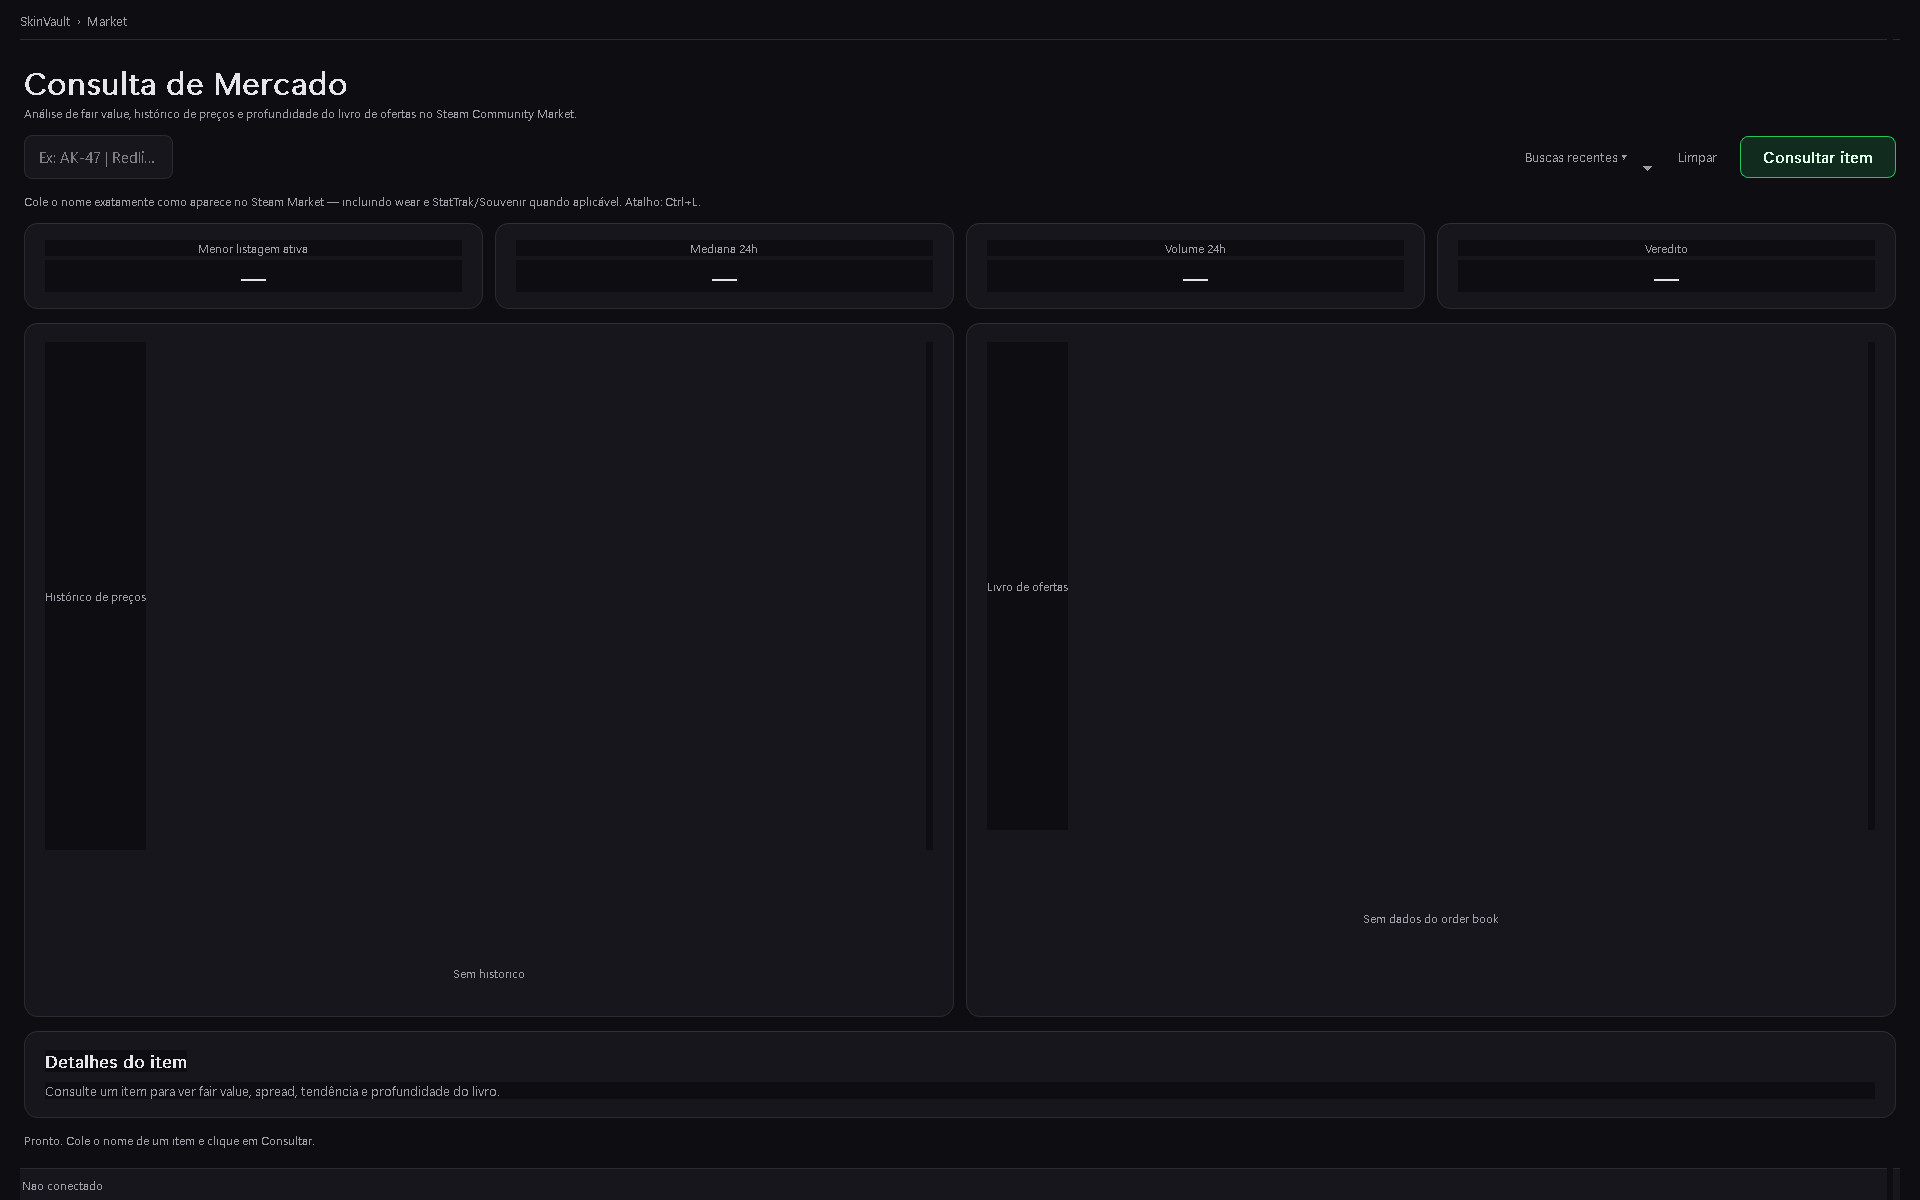
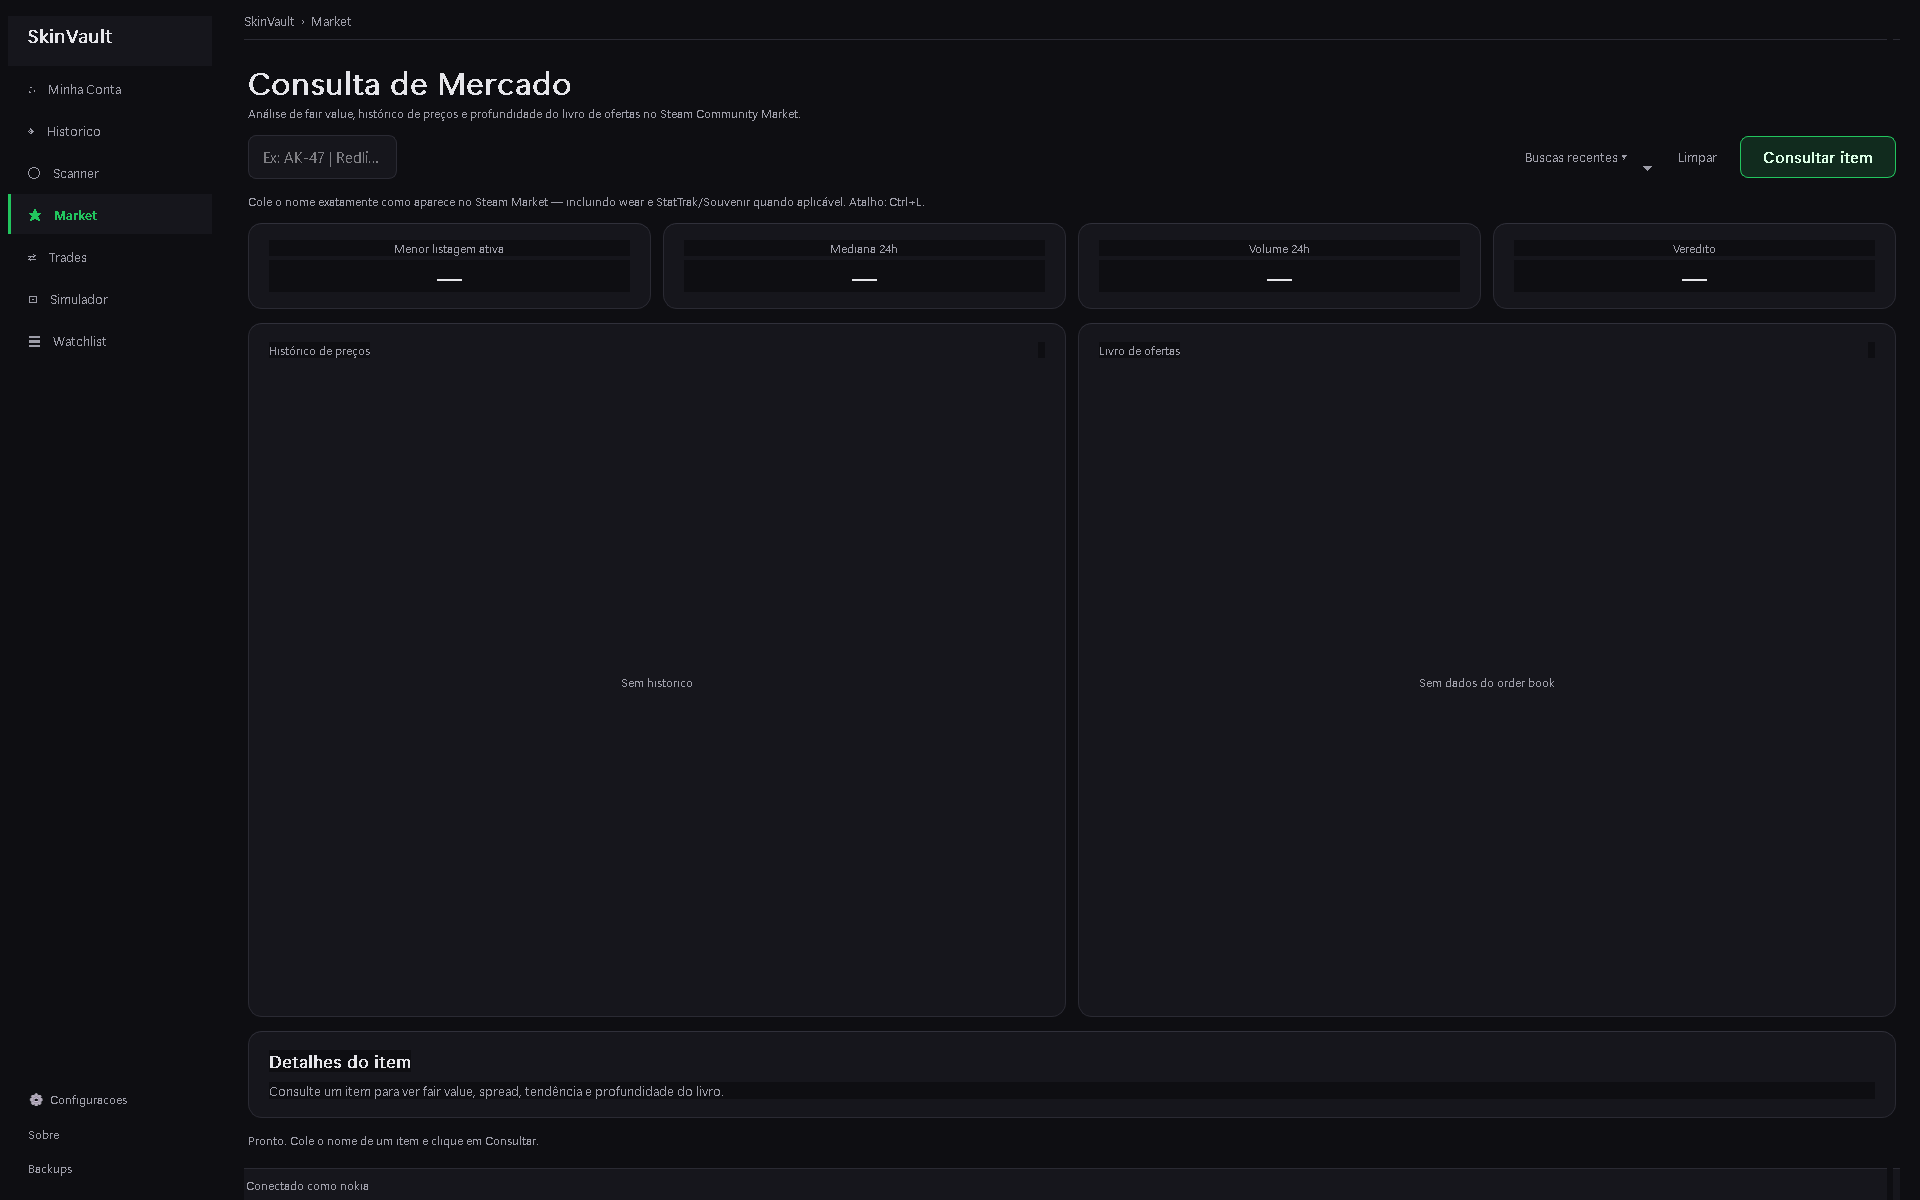
ui: charts polish — hover tooltip no sparkline, labels no depth, fix bug
- FIX: market lia x["price"] do price_history, mas SSR usa price_median
  -> sparkline NUNCA renderizava dados (sempre "Sem historico"). O mock
  do teste usava o formato errado e perpetuava o bug; corrigido pro
  formato real {time, price_median, purchases} + assert de regressao.
- MiniSparkline: hover com guia tracejada + marcador no ponto mais
  proximo, QToolTip com preco (brl) e data (timestamps unix opcionais
  em set_series). Tooltip estatico de ajuda migrou pro label do header.
- DepthChart: best bid/ask como labels brl coloridos nas pontas das
  linhas dashed (clampados na area util); legendas Bids/Asks coloridas;
  spread agora em brl (antes ponto decimal).
- Remove caps de altura (sparkline 50, depth 160): Market e o unico
  consumidor e os caps empurravam o espaco sobrando pro header do card
  (label centralizado no meio — visivel nos prints antigos).
- Remove import morto de MiniSparkline no account_screen.
- 5 tests novos (timestamps, clamp de hover index, reset de hover,
  marker paint, label clamp fora de range).

diff --git a/skinvault/ui/widgets.py b/skinvault/ui/widgets.py
@@ -5,9 +5,11 @@ cores agora vem do tema (skinvault.ui.theme).
 """
 from __future__ import annotations
 
+from datetime import datetime
+
 from PyQt6.QtCore import Qt
 from PyQt6.QtGui import QColor, QFont, QPainter, QPainterPath, QPen
-from PyQt6.QtWidgets import QWidget
+from PyQt6.QtWidgets import QToolTip, QWidget
 
 from skinvault.ui import theme as t
 
@@ -97,20 +99,29 @@ class ValueChart(QWidget):
 
 
 class MiniSparkline(QWidget):
-    """Sparkline com overlay opcional de SMA + suporte/resistencia."""
+    """Sparkline com overlay opcional de SMA + suporte/resistencia.
+
+    Hover: marcador no ponto mais proximo + tooltip com preco (e data,
+    quando timestamps unix foram passados em set_series).
+    """
 
     def __init__(self, parent: QWidget | None = None):
         super().__init__(parent)
         self._values: list[float] = []
+        self._timestamps: list[float | None] | None = None
         self._sma: list[float | None] | None = None
         self._sr: dict | None = None
+        self._hover_idx: int | None = None
         self.setMinimumHeight(50)
-        self.setMaximumHeight(50)
+        self.setMouseTracking(True)
 
-    def set_series(self, values: list[float]) -> None:
+    def set_series(self, values: list[float],
+                   timestamps: list[float | None] | None = None) -> None:
         self._values = list(values)
+        self._timestamps = list(timestamps) if timestamps else None
         self._sma = None
         self._sr = None
+        self._hover_idx = None
         self.update()
 
     def set_sma(self, sma_data: list[float | None]) -> None:
@@ -120,6 +131,37 @@ class MiniSparkline(QWidget):
     def set_sr(self, sr_data: dict) -> None:
         self._sr = sr_data
         self.update()
+
+    def _hover_index_at(self, x: float) -> int:
+        """Indice do ponto mais proximo de uma coordenada x do widget.
+        Assume len(self._values) >= 2 (caller garante)."""
+        n = len(self._values)
+        step = (self.width() - 8) / (n - 1)
+        idx = round((x - 4) / step) if step > 0 else 0
+        return max(0, min(n - 1, int(idx)))
+
+    def mouseMoveEvent(self, evt) -> None:  # noqa: N802
+        if len(self._values) < 2:
+            super().mouseMoveEvent(evt)
+            return
+        idx = self._hover_index_at(evt.position().x())
+        if idx != self._hover_idx:
+            self._hover_idx = idx
+            self.update()
+        txt = t.brl(self._values[idx])
+        ts = None
+        if self._timestamps and idx < len(self._timestamps):
+            ts = self._timestamps[idx]
+        if ts:
+            txt += datetime.fromtimestamp(ts).strftime(" — %d/%m/%Y")
+        QToolTip.showText(evt.globalPosition().toPoint(), txt, self)
+        super().mouseMoveEvent(evt)
+
+    def leaveEvent(self, evt) -> None:  # noqa: N802
+        if self._hover_idx is not None:
+            self._hover_idx = None
+            self.update()
+        super().leaveEvent(evt)
 
     def paintEvent(self, _evt) -> None:  # noqa: N802
         p = QPainter(self)
@@ -184,6 +226,18 @@ class MiniSparkline(QWidget):
                     p.drawLine(int(prev[0]), int(prev[1]), x, y)
                 prev = (x, y)
 
+        if self._hover_idx is not None and self._hover_idx < len(self._values):
+            hx = _x(self._hover_idx)
+            hy = _y(self._values[self._hover_idx])
+            guide = QPen(QColor(t.TEXT_MUTED))
+            guide.setStyle(Qt.PenStyle.DashLine)
+            guide.setWidthF(1)
+            p.setPen(guide)
+            p.drawLine(hx, 2, hx, h - 2)
+            p.setBrush(QColor(t.ACCENT if up else t.DANGER))
+            p.setPen(QPen(QColor(t.BG), 1.5))
+            p.drawEllipse(hx - 4, hy - 4, 8, 8)
+
         p.end()
 
 
@@ -198,7 +252,6 @@ class DepthChart(QWidget):
         self._best_ask: float | None = None
         self._spread: float | None = None
         self.setMinimumHeight(100)
-        self.setMaximumHeight(160)
 
     def set_data(self, order_book: dict | None) -> None:
         self._bid_points = []
@@ -340,22 +393,44 @@ class DepthChart(QWidget):
             p.drawLine(mid_x - 4, y_bid, mid_x + 4, y_bid)
             p.drawLine(mid_x - 4, y_ask, mid_x + 4, y_ask)
 
-        p.setPen(QColor(t.TEXT_MUTED))
         font = p.font()
         font.setPointSize(7)
         p.setFont(font)
-        if self._best_bid:
+
+        def _label_y(price: float) -> int:
+            # Centraliza no tick, clampado dentro da area util
+            return max(margin, min(h - margin - 12, _y(price) - 6))
+
+        if self._best_bid is not None:
+            p.setPen(QColor(t.ACCENT))
+            p.drawText(margin, _label_y(self._best_bid),
+                       mid_x - 8 - margin, 12,
+                       Qt.AlignmentFlag.AlignRight
+                       | Qt.AlignmentFlag.AlignVCenter,
+                       t.brl(self._best_bid))
+        if self._best_ask is not None:
+            p.setPen(QColor(t.DANGER))
+            p.drawText(mid_x + 8, _label_y(self._best_ask),
+                       mid_x - 8 - margin, 12,
+                       Qt.AlignmentFlag.AlignLeft
+                       | Qt.AlignmentFlag.AlignVCenter,
+                       t.brl(self._best_ask))
+
+        if self._bid_points:
+            p.setPen(QColor(t.ACCENT))
             p.drawText(margin, margin, mid_x - margin, 14,
                        Qt.AlignmentFlag.AlignLeft
                        | Qt.AlignmentFlag.AlignVCenter,
-                       f"Bids {self._best_bid:.2f}")
-        if self._best_ask:
+                       "Bids")
+        if self._ask_points:
+            p.setPen(QColor(t.DANGER))
             p.drawText(mid_x, margin, mid_x - margin, 14,
                        Qt.AlignmentFlag.AlignRight
                        | Qt.AlignmentFlag.AlignVCenter,
-                       f"Asks {self._best_ask:.2f}")
+                       "Asks")
         if self._spread is not None:
-            spread_text = f"Spread R$ {self._spread:.2f}"
+            p.setPen(QColor(t.TEXT_MUTED))
+            spread_text = f"Spread {t.brl(self._spread)}"
             text_w = p.fontMetrics().horizontalAdvance(spread_text)
             p.drawText(mid_x - text_w // 2, h - margin - 14, text_w, 14,
                        Qt.AlignmentFlag.AlignCenter, spread_text)

diff --git a/tests/test_ui_smoke.py b/tests/test_ui_smoke.py
@@ -2222,7 +2222,11 @@ class TestMarketScreen:
             "name": "AWP",
             "overview": {"lowest": 200, "median": 220, "volume": 30},
             "page": {
-                "price_history": [{"price": 210}, {"price": 215}],
+                # Formato real do SSR: time/price_median/purchases
+                "price_history": [
+                    {"time": 1700000000, "price_median": 210, "purchases": 3},
+                    {"time": 1700086400, "price_median": 215, "purchases": 5},
+                ],
                 "order_book": {"buy_count": 20, "sell_count": 8,
                                "spread": 0.03},
             },
@@ -2230,6 +2234,10 @@ class TestMarketScreen:
         screen._on_data(data)
         assert "AWP" in screen._detail_title.text()
         assert screen._detail_form.rowCount() > 0
+        # Regressao: a serie do sparkline deve ser extraida de price_median
+        # (bug antigo lia x["price"], que nao existe no SSR -> chart vazio)
+        assert screen._sparkline._values == [210, 215]
+        assert screen._sparkline._timestamps == [1700000000, 1700086400]
 
     def test_on_data_page_approx(self, monkeypatch):
         from skinvault.prices import PriceCache
@@ -5391,6 +5399,50 @@ def test_minisparkline_down():
     pix = w.grab()
     assert not pix.isNull()
 
+def test_minisparkline_with_timestamps():
+    """MiniSparkline aceita timestamps opcionais para o hover tooltip."""
+    from skinvault.ui.widgets import MiniSparkline
+    w = MiniSparkline()
+    w.resize(200, 50)
+    w.set_series([100.0, 110.0, 95.0],
+                 timestamps=[1700000000, 1700086400, 1700172800])
+    assert w._timestamps == [1700000000, 1700086400, 1700172800]
+    pix = w.grab()
+    assert not pix.isNull()
+
+def test_minisparkline_set_series_resets_hover():
+    """set_series limpa hover_idx (evita indice stale de serie anterior)."""
+    from skinvault.ui.widgets import MiniSparkline
+    w = MiniSparkline()
+    w.resize(200, 50)
+    w.set_series([100.0] * 50)
+    w._hover_idx = 49
+    w.set_series([100.0, 110.0])
+    assert w._hover_idx is None
+
+def test_minisparkline_hover_index_clamps():
+    """_hover_index_at mapeia x para indice e clampa nas bordas."""
+    from skinvault.ui.widgets import MiniSparkline
+    w = MiniSparkline()
+    w.resize(200, 50)
+    w.set_series([100.0, 110.0, 95.0, 105.0, 120.0])
+    assert w._hover_index_at(-50) == 0
+    assert w._hover_index_at(4) == 0
+    assert w._hover_index_at(w.width() - 4) == 4
+    assert w._hover_index_at(w.width() + 50) == 4
+    mid = w._hover_index_at(w.width() / 2)
+    assert 1 <= mid <= 3
+
+def test_minisparkline_hover_marker_paints():
+    """Paint com hover_idx ativo desenha guia + marcador sem crash."""
+    from skinvault.ui.widgets import MiniSparkline
+    w = MiniSparkline()
+    w.resize(200, 50)
+    w.set_series([100.0, 110.0, 95.0, 105.0, 120.0])
+    w._hover_idx = 2
+    pix = w.grab()
+    assert not pix.isNull()
+
 def test_depthchart_init():
     """DepthChart paints empty state without crashing."""
     from skinvault.ui.widgets import DepthChart
@@ -5514,6 +5566,23 @@ def test_depthchart_no_best_bid_ask():
     assert w._best_bid is None
     assert w._best_ask is None
     assert w._spread is None
+    pix = w.grab()
+    assert not pix.isNull()
+
+def test_depthchart_best_price_outside_range_clamps():
+    """Label de best price fora do range pintado clampa sem crash
+    (ask side sem pontos mas best_ask presente)."""
+    from skinvault.ui.widgets import DepthChart
+    w = DepthChart()
+    w.resize(300, 140)
+    w.set_data({
+        "buy_orders": [10000, 5, 9900, 10],
+        "sell_orders": [],
+        "best_bid": 10000,
+        "best_ask": 99999,
+    })
+    assert w._ask_points == []
+    assert w._best_ask == 999.99
     pix = w.grab()
     assert not pix.isNull()
 

diff --git a/skinvault/ui/market_screen.py b/skinvault/ui/market_screen.py
@@ -207,6 +207,14 @@ class MarketScreen(QWidget):
         spark_hdr = QHBoxLayout()
         spark_lbl = QLabel("Histórico de preços")
         spark_lbl.setStyleSheet(t.label_caption())
+        # Tooltip de ajuda fica no label do header — o chart em si mostra
+        # tooltip dinâmico (preço + data) ao passar o mouse nos pontos.
+        spark_lbl.setToolTip(
+            "Últimos ~100 pontos do preço mediano.\n"
+            "Linha tracejada = SMA 7 dias. Linhas horizontais = suporte e "
+            "resistência aproximados.\n"
+            "Passe o mouse sobre o gráfico para ver preço e data por ponto."
+        )
         spark_hdr.addWidget(spark_lbl)
         spark_hdr.addStretch(1)
         self._spark_meta = QLabel("")
@@ -215,11 +223,6 @@ class MarketScreen(QWidget):
         spark_lay.addLayout(spark_hdr)
         self._sparkline = MiniSparkline(parent=spark_card)
         self._sparkline.setMinimumHeight(140)
-        self._sparkline.setToolTip(
-            "Últimos ~100 pontos do preço mediano.\n"
-            "Linha tracejada = SMA 7 dias. Linhas horizontais = suporte e "
-            "resistência aproximados."
-        )
         spark_lay.addWidget(self._sparkline, 1)
         spark_card.layout().addLayout(spark_lay)
         charts_row.addWidget(spark_card, 1)
@@ -470,11 +473,17 @@ class MarketScreen(QWidget):
             order_book = page.get("order_book")
 
             if price_history:
-                prices_list = [x["price"] for x in price_history
-                               if "price" in x]
-                if prices_list:
-                    self._sparkline.set_series(prices_list[-100:])
-                    sma_vals = signals.sma(prices_list, period=7)
+                # Entries SSR: {time: unix, price_median: float, purchases}
+                series = [(x.get("time"), x["price_median"])
+                          for x in price_history if "price_median" in x]
+                if series:
+                    recent = series[-100:]
+                    self._sparkline.set_series(
+                        [pr for _, pr in recent],
+                        timestamps=[ts for ts, _ in recent],
+                    )
+                    sma_vals = signals.sma([pr for _, pr in series],
+                                           period=7)
                     if sma_vals:
                         self._sparkline.set_sma(sma_vals[-100:])
                     sr = signals.find_support_resistance(price_history[-100:])

diff --git a/skinvault/ui/account_screen.py b/skinvault/ui/account_screen.py
@@ -41,7 +41,6 @@ from skinvault.ui.profile_fetcher import (
     load_avatar_bytes,
     load_cached_profile,
 )
-from skinvault.ui.widgets import MiniSparkline
 
 
 class _AccountBridge(QObject):
